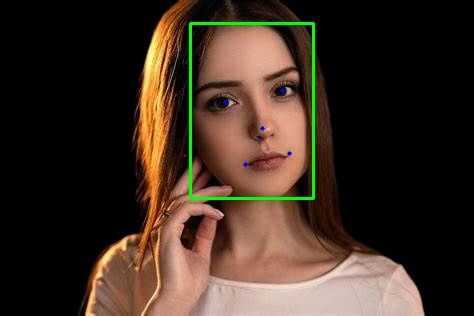
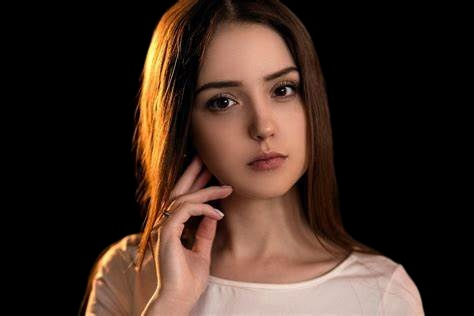
...

diff --git a/app.py b/app.py
@@ -20,7 +20,37 @@ output_dir = "D:\\Work\\Thesis\\Face_detection\\FaceD\\output\\"  # Change this 
 if not os.path.exists(output_dir):
     os.makedirs(output_dir)
 
-# Step 3: Traverse through each image in the input directory
+# Step 3: Define the Face Alignment Function
+def align_face(image, face):
+    """
+    Aligns the face based on detected landmarks, specifically the eyes.
+    This assumes that the 'face' object contains the detected keypoints (landmarks).
+    """
+    # Get the coordinates of the eyes from the face landmarks
+    left_eye = tuple(face.kps[0].astype(int))  # Left eye (first point)
+    right_eye = tuple(face.kps[1].astype(int))  # Right eye (second point)
+
+    # Compute the center of the eyes
+    eyes_center = ((left_eye[0] + right_eye[0]) / 2, (left_eye[1] + right_eye[1]) / 2)  # Use normal division
+
+    # Convert to integers
+    eyes_center = tuple(map(int, eyes_center))  # Ensure the center is a tuple of integers
+
+    # Compute the angle between the eyes
+    dx = right_eye[0] - left_eye[0]
+    dy = right_eye[1] - left_eye[1]
+    angle = np.degrees(np.arctan2(dy, dx))
+
+    # Get the rotation matrix for the face alignment
+    rotation_matrix = cv2.getRotationMatrix2D(eyes_center, angle, 1)
+
+    # Get the aligned face by rotating the image around the eyes center
+    aligned_face = cv2.warpAffine(image, rotation_matrix, (image.shape[1], image.shape[0]), flags=cv2.INTER_CUBIC)
+
+    return aligned_face
+
+
+# Step 4: Traverse through each image in the input directory
 for image_filename in os.listdir(input_dir):
     image_path = os.path.join(input_dir, image_filename)
     
@@ -28,7 +58,7 @@ for image_filename in os.listdir(input_dir):
     if image_filename.lower().endswith(('.jpg', '.png', '.jpeg')):
         print(f"Processing image: {image_path}")
         
-        # Step 4: Load the image
+        # Step 5: Load the image
         image = cv2.imread(image_path)
         
         if image is None:
@@ -37,7 +67,7 @@ for image_filename in os.listdir(input_dir):
         else:
             print(f"Image loaded successfully! Image shape: {image.shape}")
 
-        # Step 5: Use rembg for Background Removal
+        # Step 6: Use rembg for Background Removal
         print("Starting background removal using rembg...")
         image_rgb = cv2.cvtColor(image, cv2.COLOR_BGR2RGB)  # Convert from BGR to RGB
         pil_image = Image.fromarray(image_rgb)  # Convert to PIL image
@@ -50,7 +80,7 @@ for image_filename in os.listdir(input_dir):
         output_image.save(output_bytes_io, format="PNG")
         output_bytes = output_bytes_io.getvalue()
 
-        # Step 6: Save the Output of Background Removal to a Temporary File
+        # Step 7: Save the Output of Background Removal to a Temporary File
         with tempfile.NamedTemporaryFile(suffix=".png", delete=False) as temp_file:
             temp_file.write(output_bytes)
             temp_file_path = temp_file.name
@@ -58,7 +88,7 @@ for image_filename in os.listdir(input_dir):
         # Open the temporary file with PIL
         output_image = Image.open(temp_file_path)
 
-        # Step 7: Perform Face Detection
+        # Step 8: Perform Face Detection
         print("Starting face detection...")
         output_image_rgb = output_image.convert("RGB")  # Convert to RGB (removes alpha channel)
         faces = face_analyzer.get(np.array(output_image_rgb))
@@ -69,28 +99,34 @@ for image_filename in os.listdir(input_dir):
         else:
             print(f"Detected {len(faces)} faces.")
 
-        # Step 8: Draw Bounding Boxes and Landmarks on the Image
+        # Step 9: Draw Bounding Boxes and Landmarks on the Image
         image_with_faces = np.array(output_image_rgb)  # Convert PIL image to numpy array for OpenCV
         for face in faces:
-            # Draw the bounding box
-            bbox = face.bbox.astype(int)
-            cv2.rectangle(image_with_faces, (bbox[0], bbox[1]), (bbox[2], bbox[3]), (0, 255, 0), 2)
+            # At this point, no bounding box is drawn during detection.
+            # Instead, we will align the face and draw the bounding box after alignment.
 
-            # Draw landmarks (eyes, nose, mouth corners)
-            for point in face.kps:  # facial landmarks
-                cv2.circle(image_with_faces, tuple(point.astype(int)), 2, (0, 0, 255), -1)
+            # Align face using the detected landmarks (we'll align to the eyes)
+            aligned_face = align_face(image_with_faces, face)
 
-        # Step 9: Save the Output Images
-        # Save the background-removed image (PNG)
-        output_image_path = os.path.join(output_dir, f"{os.path.splitext(image_filename)[0]}_bg_removed.jpg")
-        output_image.save(output_image_path)
-        
-        # Save the image with detected faces and landmarks (JPEG)
-        output_detected_faces_path = os.path.join(output_dir, f"{os.path.splitext(image_filename)[0]}_faces_detected.jpg")
-        # Convert to RGB before saving as JPEG (OpenCV uses BGR)
-        image_with_faces_rgb = cv2.cvtColor(image_with_faces, cv2.COLOR_BGR2RGB)
-        cv2.imwrite(output_detected_faces_path, image_with_faces_rgb)
+            # Step 10: Draw the bounding box after alignment
+            new_bbox = face.bbox.astype(int)
+            cv2.rectangle(aligned_face, (new_bbox[0], new_bbox[1]), (new_bbox[2], new_bbox[3]), (0, 255, 0), 2)
 
-        print(f"Processed images saved:\n - Background removed: {output_image_path}\n - Detected faces: {output_detected_faces_path}")
+            # Step 11: Save the Output Images
+            # Save the background-removed image (PNG)
+            output_image_path = os.path.join(output_dir, f"{os.path.splitext(image_filename)[0]}_bg_removed.png")
+            output_image.save(output_image_path)
+            
+            # Save the image with detected faces and landmarks (JPEG)
+            output_detected_faces_path = os.path.join(output_dir, f"{os.path.splitext(image_filename)[0]}_faces_detected.jpg")
+            # Convert to RGB before saving as JPEG (OpenCV uses BGR)
+            image_with_faces_rgb = cv2.cvtColor(image_with_faces, cv2.COLOR_BGR2RGB)
+            cv2.imwrite(output_detected_faces_path, image_with_faces_rgb)
+
+            # Save the aligned face image (JPEG)
+            output_aligned_face_path = os.path.join(output_dir, f"{os.path.splitext(image_filename)[0]}_aligned_face.jpg")
+            cv2.imwrite(output_aligned_face_path, aligned_face)
+
+            print(f"Processed images saved:\n - Background removed: {output_image_path}\n - Detected faces: {output_detected_faces_path}\n - Aligned face: {output_aligned_face_path}")
 
 print("All images processed.")
